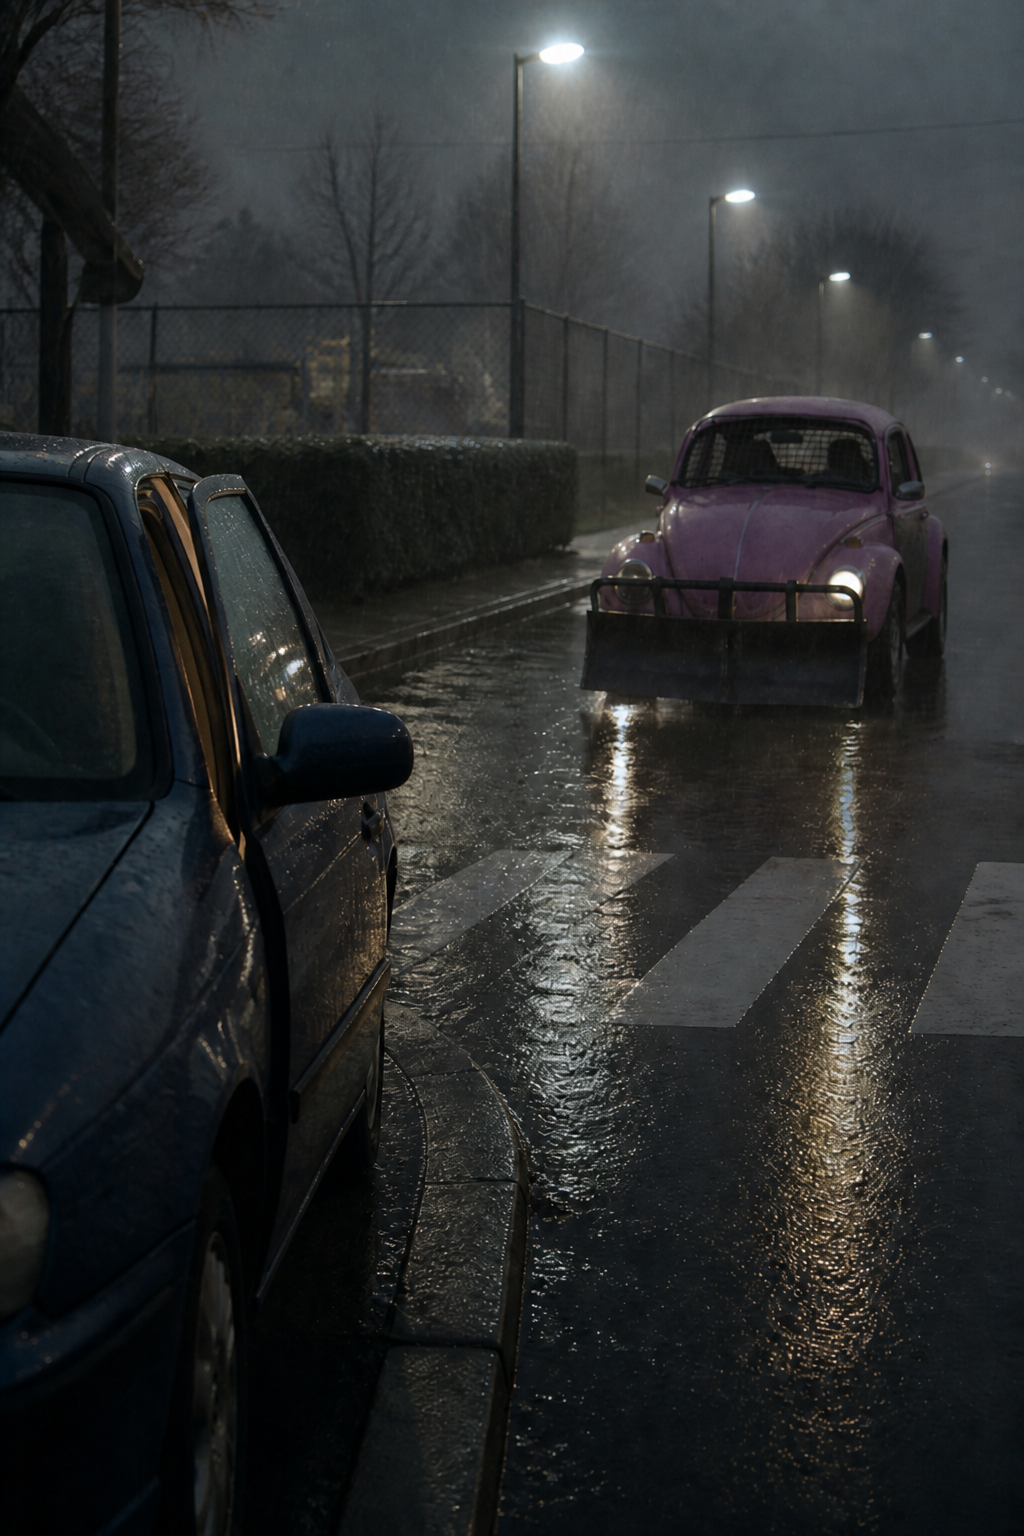
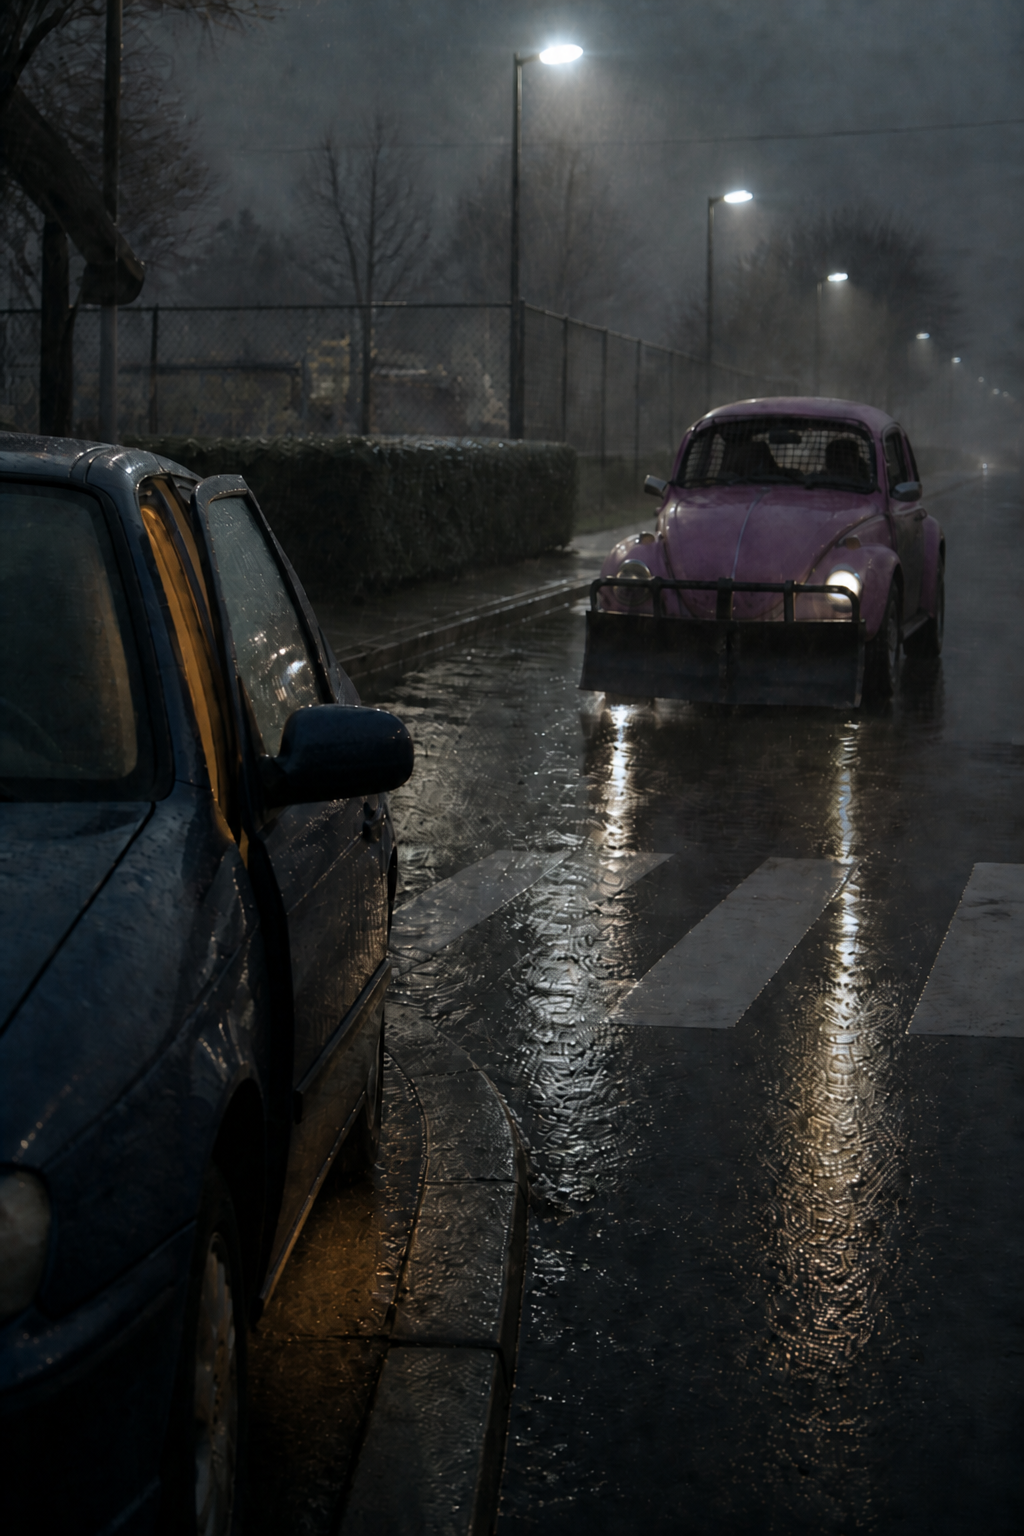
Rebuild the three Act II frames the art audit still owed.
009 is cockpit: pedestrian vs a lit tablet, no waterfront. 026 is Ali's Dutch Reach — far hand on the left latch, Marisol only in the glass. 027 shows the parked door ajar with dome light. Bust image cache so phones pick up the swap.

diff --git a/src/game.js b/src/game.js
@@ -150,7 +150,7 @@ function sceneFragment(scene) {
 }
 
 function imageUrl(cardId) {
-  return "/api/run/image/" + encodeURIComponent(cardId);
+  return "/api/run/image/" + encodeURIComponent(cardId) + "?v=a3";
 }
 
 function cargoFrom(state) {
